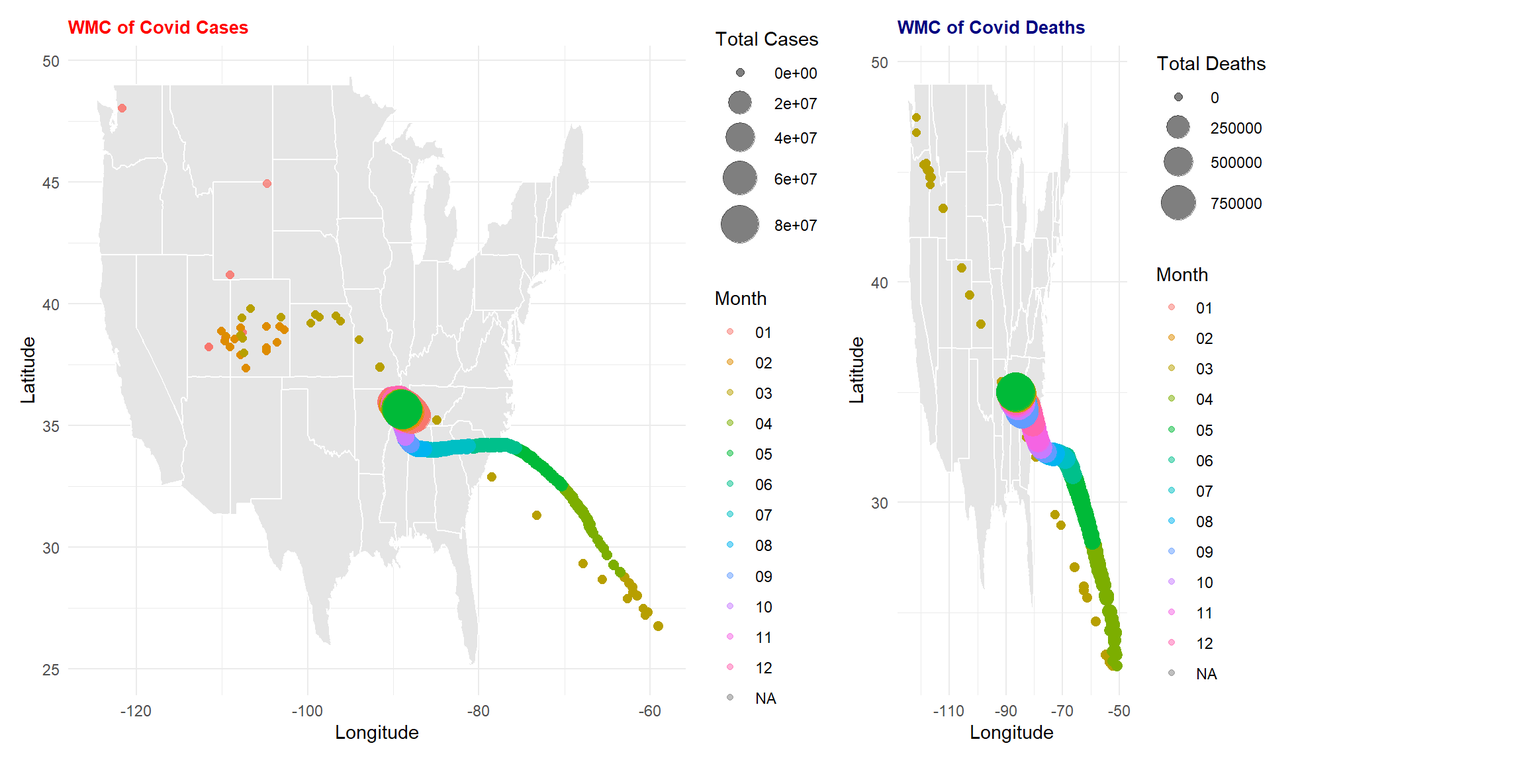
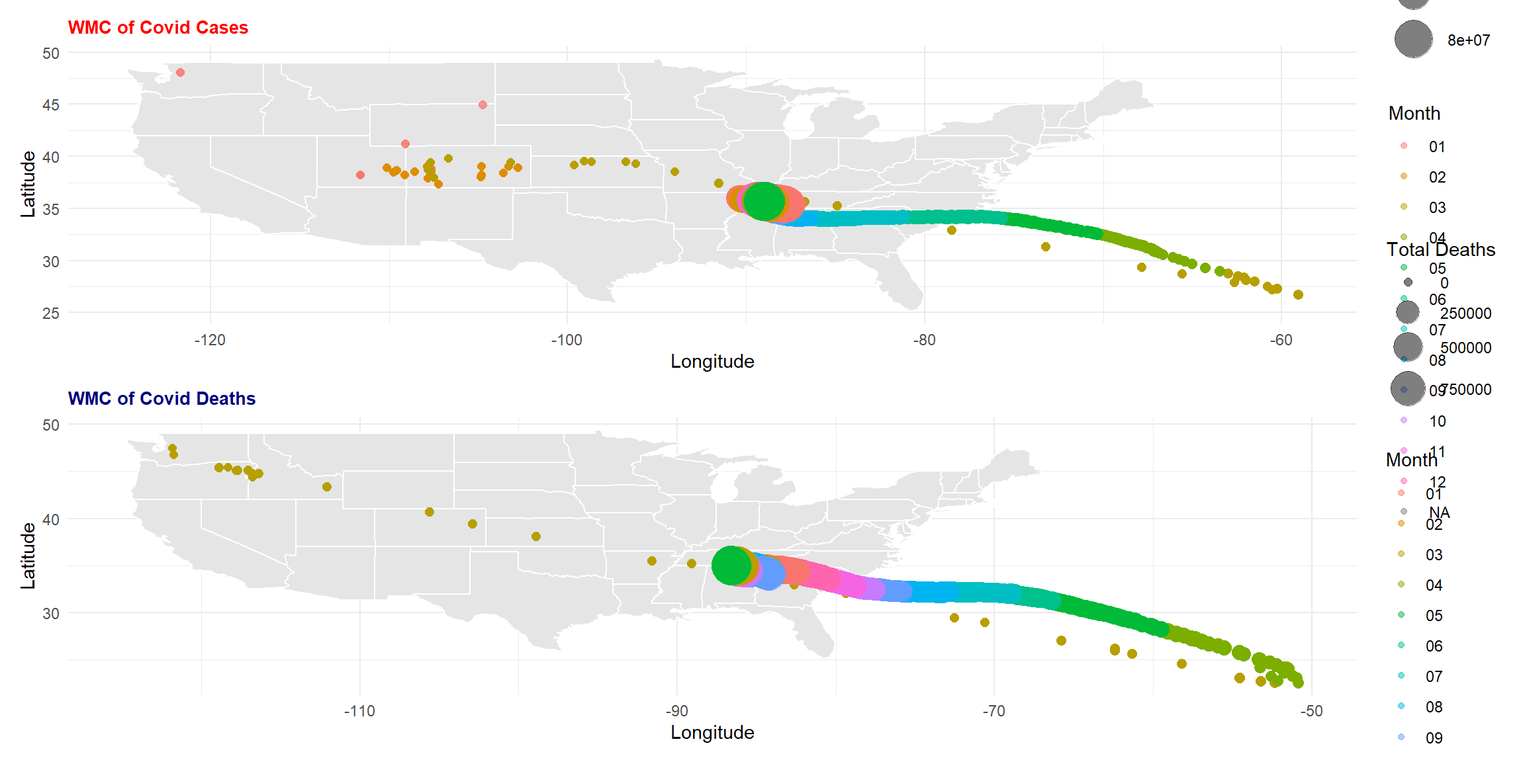
na

diff --git a/lab-03.html b/lab-03.html
@@ -281,7 +281,7 @@ $ RNETMIG2021           &lt;dbl&gt; 4.3515806, 29.9450352, -12.6459537, 11.44858
 <span id="cb30-13"><a href="#cb30-13" aria-hidden="true" tabindex="-1"></a>  <span class="fu">flextable</span>()  <span class="sc">%&gt;%</span></span>
 <span id="cb30-14"><a href="#cb30-14" aria-hidden="true" tabindex="-1"></a>  <span class="fu">set_caption</span>(<span class="st">"Top Counties by Per Capita Cumulative Cases on 2021-02-01"</span>)</span></code><button title="Copy to Clipboard" class="code-copy-button"><i class="bi"></i></button></pre></div>
 <div class="cell-output-display">
-<div class="tabwid"><style>.cl-cff67302{}.cl-cff07876{font-family:'Arial';font-size:11pt;font-weight:normal;font-style:normal;text-decoration:none;color:rgba(0, 0, 0, 1.00);background-color:transparent;}.cl-cff2dd14{margin:0;text-align:right;border-bottom: 0 solid rgba(0, 0, 0, 1.00);border-top: 0 solid rgba(0, 0, 0, 1.00);border-left: 0 solid rgba(0, 0, 0, 1.00);border-right: 0 solid rgba(0, 0, 0, 1.00);padding-bottom:5pt;padding-top:5pt;padding-left:5pt;padding-right:5pt;line-height: 1;background-color:transparent;}.cl-cff2dd15{margin:0;text-align:left;border-bottom: 0 solid rgba(0, 0, 0, 1.00);border-top: 0 solid rgba(0, 0, 0, 1.00);border-left: 0 solid rgba(0, 0, 0, 1.00);border-right: 0 solid rgba(0, 0, 0, 1.00);padding-bottom:5pt;padding-top:5pt;padding-left:5pt;padding-right:5pt;line-height: 1;background-color:transparent;}.cl-cff2f29a{width:0.75in;background-color:transparent;vertical-align: middle;border-bottom: 1.5pt solid rgba(102, 102, 102, 1.00);border-top: 1.5pt solid rgba(102, 102, 102, 1.00);border-left: 0 solid rgba(0, 0, 0, 1.00);border-right: 0 solid rgba(0, 0, 0, 1.00);margin-bottom:0;margin-top:0;margin-left:0;margin-right:0;}.cl-cff2f2a4{width:0.75in;background-color:transparent;vertical-align: middle;border-bottom: 1.5pt solid rgba(102, 102, 102, 1.00);border-top: 1.5pt solid rgba(102, 102, 102, 1.00);border-left: 0 solid rgba(0, 0, 0, 1.00);border-right: 0 solid rgba(0, 0, 0, 1.00);margin-bottom:0;margin-top:0;margin-left:0;margin-right:0;}.cl-cff2f2a5{width:0.75in;background-color:transparent;vertical-align: middle;border-bottom: 0 solid rgba(0, 0, 0, 1.00);border-top: 0 solid rgba(0, 0, 0, 1.00);border-left: 0 solid rgba(0, 0, 0, 1.00);border-right: 0 solid rgba(0, 0, 0, 1.00);margin-bottom:0;margin-top:0;margin-left:0;margin-right:0;}.cl-cff2f2c2{width:0.75in;background-color:transparent;vertical-align: middle;border-bottom: 0 solid rgba(0, 0, 0, 1.00);border-top: 0 solid rgba(0, 0, 0, 1.00);border-left: 0 solid rgba(0, 0, 0, 1.00);border-right: 0 solid rgba(0, 0, 0, 1.00);margin-bottom:0;margin-top:0;margin-left:0;margin-right:0;}.cl-cff2f2c3{width:0.75in;background-color:transparent;vertical-align: middle;border-bottom: 1.5pt solid rgba(102, 102, 102, 1.00);border-top: 0 solid rgba(0, 0, 0, 1.00);border-left: 0 solid rgba(0, 0, 0, 1.00);border-right: 0 solid rgba(0, 0, 0, 1.00);margin-bottom:0;margin-top:0;margin-left:0;margin-right:0;}.cl-cff2f2cc{width:0.75in;background-color:transparent;vertical-align: middle;border-bottom: 1.5pt solid rgba(102, 102, 102, 1.00);border-top: 0 solid rgba(0, 0, 0, 1.00);border-left: 0 solid rgba(0, 0, 0, 1.00);border-right: 0 solid rgba(0, 0, 0, 1.00);margin-bottom:0;margin-top:0;margin-left:0;margin-right:0;}</style><table data-quarto-disable-processing="true" class="cl-cff67302"><thead><tr style="overflow-wrap:break-word;"><th class="cl-cff2f29a"><p class="cl-cff2dd14"><span class="cl-cff07876">Date</span></p></th><th class="cl-cff2f2a4"><p class="cl-cff2dd15"><span class="cl-cff07876">County</span></p></th><th class="cl-cff2f29a"><p class="cl-cff2dd14"><span class="cl-cff07876">Per Capita Cumulative Cases</span></p></th></tr></thead><tbody><tr style="overflow-wrap:break-word;"><td class="cl-cff2f2a5"><p class="cl-cff2dd14"><span class="cl-cff07876">2022-02-01</span></p></td><td class="cl-cff2f2c2"><p class="cl-cff2dd15"><span class="cl-cff07876">Crowley</span></p></td><td class="cl-cff2f2a5"><p class="cl-cff2dd14"><span class="cl-cff07876">0.5117698</span></p></td></tr><tr style="overflow-wrap:break-word;"><td class="cl-cff2f2a5"><p class="cl-cff2dd14"><span class="cl-cff07876">2022-02-01</span></p></td><td class="cl-cff2f2c2"><p class="cl-cff2dd15"><span class="cl-cff07876">Bent</span></p></td><td class="cl-cff2f2a5"><p class="cl-cff2dd14"><span class="cl-cff07876">0.4118749</span></p></td></tr><tr style="overflow-wrap:break-word;"><td class="cl-cff2f2a5"><p class="cl-cff2dd14"><span class="cl-cff07876">2022-02-01</span></p></td><td class="cl-cff2f2c2"><p class="cl-cff2dd15"><span class="cl-cff07876">Pitkin</span></p></td><td class="cl-cff2f2a5"><p class="cl-cff2dd14"><span class="cl-cff07876">0.3429659</span></p></td></tr><tr style="overflow-wrap:break-word;"><td class="cl-cff2f2a5"><p class="cl-cff2dd14"><span class="cl-cff07876">2022-02-01</span></p></td><td class="cl-cff2f2c2"><p class="cl-cff2dd15"><span class="cl-cff07876">Lincoln</span></p></td><td class="cl-cff2f2a5"><p class="cl-cff2dd14"><span class="cl-cff07876">0.3424082</span></p></td></tr><tr style="overflow-wrap:break-word;"><td class="cl-cff2f2c3"><p class="cl-cff2dd14"><span class="cl-cff07876">2022-02-01</span></p></td><td class="cl-cff2f2cc"><p class="cl-cff2dd15"><span class="cl-cff07876">Logan</span></p></td><td class="cl-cff2f2c3"><p class="cl-cff2dd14"><span class="cl-cff07876">0.3047701</span></p></td></tr></tbody></table></div>
+<div class="tabwid"><style>.cl-89d35046{}.cl-89cc3c84{font-family:'Arial';font-size:11pt;font-weight:normal;font-style:normal;text-decoration:none;color:rgba(0, 0, 0, 1.00);background-color:transparent;}.cl-89cef280{margin:0;text-align:right;border-bottom: 0 solid rgba(0, 0, 0, 1.00);border-top: 0 solid rgba(0, 0, 0, 1.00);border-left: 0 solid rgba(0, 0, 0, 1.00);border-right: 0 solid rgba(0, 0, 0, 1.00);padding-bottom:5pt;padding-top:5pt;padding-left:5pt;padding-right:5pt;line-height: 1;background-color:transparent;}.cl-89cef28a{margin:0;text-align:left;border-bottom: 0 solid rgba(0, 0, 0, 1.00);border-top: 0 solid rgba(0, 0, 0, 1.00);border-left: 0 solid rgba(0, 0, 0, 1.00);border-right: 0 solid rgba(0, 0, 0, 1.00);padding-bottom:5pt;padding-top:5pt;padding-left:5pt;padding-right:5pt;line-height: 1;background-color:transparent;}.cl-89cf0d38{width:0.75in;background-color:transparent;vertical-align: middle;border-bottom: 1.5pt solid rgba(102, 102, 102, 1.00);border-top: 1.5pt solid rgba(102, 102, 102, 1.00);border-left: 0 solid rgba(0, 0, 0, 1.00);border-right: 0 solid rgba(0, 0, 0, 1.00);margin-bottom:0;margin-top:0;margin-left:0;margin-right:0;}.cl-89cf0d56{width:0.75in;background-color:transparent;vertical-align: middle;border-bottom: 1.5pt solid rgba(102, 102, 102, 1.00);border-top: 1.5pt solid rgba(102, 102, 102, 1.00);border-left: 0 solid rgba(0, 0, 0, 1.00);border-right: 0 solid rgba(0, 0, 0, 1.00);margin-bottom:0;margin-top:0;margin-left:0;margin-right:0;}.cl-89cf0d57{width:0.75in;background-color:transparent;vertical-align: middle;border-bottom: 0 solid rgba(0, 0, 0, 1.00);border-top: 0 solid rgba(0, 0, 0, 1.00);border-left: 0 solid rgba(0, 0, 0, 1.00);border-right: 0 solid rgba(0, 0, 0, 1.00);margin-bottom:0;margin-top:0;margin-left:0;margin-right:0;}.cl-89cf0d60{width:0.75in;background-color:transparent;vertical-align: middle;border-bottom: 0 solid rgba(0, 0, 0, 1.00);border-top: 0 solid rgba(0, 0, 0, 1.00);border-left: 0 solid rgba(0, 0, 0, 1.00);border-right: 0 solid rgba(0, 0, 0, 1.00);margin-bottom:0;margin-top:0;margin-left:0;margin-right:0;}.cl-89cf0d61{width:0.75in;background-color:transparent;vertical-align: middle;border-bottom: 1.5pt solid rgba(102, 102, 102, 1.00);border-top: 0 solid rgba(0, 0, 0, 1.00);border-left: 0 solid rgba(0, 0, 0, 1.00);border-right: 0 solid rgba(0, 0, 0, 1.00);margin-bottom:0;margin-top:0;margin-left:0;margin-right:0;}.cl-89cf0d6a{width:0.75in;background-color:transparent;vertical-align: middle;border-bottom: 1.5pt solid rgba(102, 102, 102, 1.00);border-top: 0 solid rgba(0, 0, 0, 1.00);border-left: 0 solid rgba(0, 0, 0, 1.00);border-right: 0 solid rgba(0, 0, 0, 1.00);margin-bottom:0;margin-top:0;margin-left:0;margin-right:0;}</style><table data-quarto-disable-processing="true" class="cl-89d35046"><thead><tr style="overflow-wrap:break-word;"><th class="cl-89cf0d38"><p class="cl-89cef280"><span class="cl-89cc3c84">Date</span></p></th><th class="cl-89cf0d56"><p class="cl-89cef28a"><span class="cl-89cc3c84">County</span></p></th><th class="cl-89cf0d38"><p class="cl-89cef280"><span class="cl-89cc3c84">Per Capita Cumulative Cases</span></p></th></tr></thead><tbody><tr style="overflow-wrap:break-word;"><td class="cl-89cf0d57"><p class="cl-89cef280"><span class="cl-89cc3c84">2022-02-01</span></p></td><td class="cl-89cf0d60"><p class="cl-89cef28a"><span class="cl-89cc3c84">Crowley</span></p></td><td class="cl-89cf0d57"><p class="cl-89cef280"><span class="cl-89cc3c84">0.5117698</span></p></td></tr><tr style="overflow-wrap:break-word;"><td class="cl-89cf0d57"><p class="cl-89cef280"><span class="cl-89cc3c84">2022-02-01</span></p></td><td class="cl-89cf0d60"><p class="cl-89cef28a"><span class="cl-89cc3c84">Bent</span></p></td><td class="cl-89cf0d57"><p class="cl-89cef280"><span class="cl-89cc3c84">0.4118749</span></p></td></tr><tr style="overflow-wrap:break-word;"><td class="cl-89cf0d57"><p class="cl-89cef280"><span class="cl-89cc3c84">2022-02-01</span></p></td><td class="cl-89cf0d60"><p class="cl-89cef28a"><span class="cl-89cc3c84">Pitkin</span></p></td><td class="cl-89cf0d57"><p class="cl-89cef280"><span class="cl-89cc3c84">0.3429659</span></p></td></tr><tr style="overflow-wrap:break-word;"><td class="cl-89cf0d57"><p class="cl-89cef280"><span class="cl-89cc3c84">2022-02-01</span></p></td><td class="cl-89cf0d60"><p class="cl-89cef28a"><span class="cl-89cc3c84">Lincoln</span></p></td><td class="cl-89cf0d57"><p class="cl-89cef280"><span class="cl-89cc3c84">0.3424082</span></p></td></tr><tr style="overflow-wrap:break-word;"><td class="cl-89cf0d61"><p class="cl-89cef280"><span class="cl-89cc3c84">2022-02-01</span></p></td><td class="cl-89cf0d6a"><p class="cl-89cef28a"><span class="cl-89cc3c84">Logan</span></p></td><td class="cl-89cf0d61"><p class="cl-89cef280"><span class="cl-89cc3c84">0.3047701</span></p></td></tr></tbody></table></div>
 </div>
 <div class="sourceCode cell-code" id="cb31"><pre class="sourceCode r code-with-copy"><code class="sourceCode r"><span id="cb31-1"><a href="#cb31-1" aria-hidden="true" tabindex="-1"></a><span class="co">#top 5 counties with most new cases per cap</span></span>
 <span id="cb31-2"><a href="#cb31-2" aria-hidden="true" tabindex="-1"></a>combined_data <span class="sc">%&gt;%</span> </span>
@@ -291,7 +291,7 @@ $ RNETMIG2021           &lt;dbl&gt; 4.3515806, 29.9450352, -12.6459537, 11.44858
 <span id="cb31-6"><a href="#cb31-6" aria-hidden="true" tabindex="-1"></a>  <span class="fu">flextable</span>()  <span class="sc">%&gt;%</span></span>
 <span id="cb31-7"><a href="#cb31-7" aria-hidden="true" tabindex="-1"></a>  <span class="fu">set_caption</span>(<span class="st">"Top Counties by Per Capita New Cases on 2021-02-01"</span>)</span></code><button title="Copy to Clipboard" class="code-copy-button"><i class="bi"></i></button></pre></div>
 <div class="cell-output-display">
-<div class="tabwid"><style>.cl-d0035fb8{}.cl-cffe1c9c{font-family:'Arial';font-size:11pt;font-weight:normal;font-style:normal;text-decoration:none;color:rgba(0, 0, 0, 1.00);background-color:transparent;}.cl-d0002e10{margin:0;text-align:right;border-bottom: 0 solid rgba(0, 0, 0, 1.00);border-top: 0 solid rgba(0, 0, 0, 1.00);border-left: 0 solid rgba(0, 0, 0, 1.00);border-right: 0 solid rgba(0, 0, 0, 1.00);padding-bottom:5pt;padding-top:5pt;padding-left:5pt;padding-right:5pt;line-height: 1;background-color:transparent;}.cl-d0002e1a{margin:0;text-align:left;border-bottom: 0 solid rgba(0, 0, 0, 1.00);border-top: 0 solid rgba(0, 0, 0, 1.00);border-left: 0 solid rgba(0, 0, 0, 1.00);border-right: 0 solid rgba(0, 0, 0, 1.00);padding-bottom:5pt;padding-top:5pt;padding-left:5pt;padding-right:5pt;line-height: 1;background-color:transparent;}.cl-d000431e{width:0.75in;background-color:transparent;vertical-align: middle;border-bottom: 1.5pt solid rgba(102, 102, 102, 1.00);border-top: 1.5pt solid rgba(102, 102, 102, 1.00);border-left: 0 solid rgba(0, 0, 0, 1.00);border-right: 0 solid rgba(0, 0, 0, 1.00);margin-bottom:0;margin-top:0;margin-left:0;margin-right:0;}.cl-d0004328{width:0.75in;background-color:transparent;vertical-align: middle;border-bottom: 1.5pt solid rgba(102, 102, 102, 1.00);border-top: 1.5pt solid rgba(102, 102, 102, 1.00);border-left: 0 solid rgba(0, 0, 0, 1.00);border-right: 0 solid rgba(0, 0, 0, 1.00);margin-bottom:0;margin-top:0;margin-left:0;margin-right:0;}.cl-d0004329{width:0.75in;background-color:transparent;vertical-align: middle;border-bottom: 0 solid rgba(0, 0, 0, 1.00);border-top: 0 solid rgba(0, 0, 0, 1.00);border-left: 0 solid rgba(0, 0, 0, 1.00);border-right: 0 solid rgba(0, 0, 0, 1.00);margin-bottom:0;margin-top:0;margin-left:0;margin-right:0;}.cl-d0004332{width:0.75in;background-color:transparent;vertical-align: middle;border-bottom: 0 solid rgba(0, 0, 0, 1.00);border-top: 0 solid rgba(0, 0, 0, 1.00);border-left: 0 solid rgba(0, 0, 0, 1.00);border-right: 0 solid rgba(0, 0, 0, 1.00);margin-bottom:0;margin-top:0;margin-left:0;margin-right:0;}.cl-d0004333{width:0.75in;background-color:transparent;vertical-align: middle;border-bottom: 1.5pt solid rgba(102, 102, 102, 1.00);border-top: 0 solid rgba(0, 0, 0, 1.00);border-left: 0 solid rgba(0, 0, 0, 1.00);border-right: 0 solid rgba(0, 0, 0, 1.00);margin-bottom:0;margin-top:0;margin-left:0;margin-right:0;}.cl-d0004334{width:0.75in;background-color:transparent;vertical-align: middle;border-bottom: 1.5pt solid rgba(102, 102, 102, 1.00);border-top: 0 solid rgba(0, 0, 0, 1.00);border-left: 0 solid rgba(0, 0, 0, 1.00);border-right: 0 solid rgba(0, 0, 0, 1.00);margin-bottom:0;margin-top:0;margin-left:0;margin-right:0;}</style><table data-quarto-disable-processing="true" class="cl-d0035fb8"><thead><tr style="overflow-wrap:break-word;"><th class="cl-d000431e"><p class="cl-d0002e10"><span class="cl-cffe1c9c">Date</span></p></th><th class="cl-d0004328"><p class="cl-d0002e1a"><span class="cl-cffe1c9c">County</span></p></th><th class="cl-d000431e"><p class="cl-d0002e10"><span class="cl-cffe1c9c">Per Capita New Cases</span></p></th></tr></thead><tbody><tr style="overflow-wrap:break-word;"><td class="cl-d0004329"><p class="cl-d0002e10"><span class="cl-cffe1c9c">2022-02-01</span></p></td><td class="cl-d0004332"><p class="cl-d0002e1a"><span class="cl-cffe1c9c">Crowley</span></p></td><td class="cl-d0004329"><p class="cl-d0002e10"><span class="cl-cffe1c9c">0.009764603</span></p></td></tr><tr style="overflow-wrap:break-word;"><td class="cl-d0004329"><p class="cl-d0002e10"><span class="cl-cffe1c9c">2022-02-01</span></p></td><td class="cl-d0004332"><p class="cl-d0002e1a"><span class="cl-cffe1c9c">Bent</span></p></td><td class="cl-d0004329"><p class="cl-d0002e10"><span class="cl-cffe1c9c">0.004120622</span></p></td></tr><tr style="overflow-wrap:break-word;"><td class="cl-d0004329"><p class="cl-d0002e10"><span class="cl-cffe1c9c">2022-02-01</span></p></td><td class="cl-d0004332"><p class="cl-d0002e1a"><span class="cl-cffe1c9c">Sedgwick</span></p></td><td class="cl-d0004329"><p class="cl-d0002e10"><span class="cl-cffe1c9c">0.003869304</span></p></td></tr><tr style="overflow-wrap:break-word;"><td class="cl-d0004329"><p class="cl-d0002e10"><span class="cl-cffe1c9c">2022-02-01</span></p></td><td class="cl-d0004332"><p class="cl-d0002e1a"><span class="cl-cffe1c9c">Washington</span></p></td><td class="cl-d0004329"><p class="cl-d0002e10"><span class="cl-cffe1c9c">0.002875924</span></p></td></tr><tr style="overflow-wrap:break-word;"><td class="cl-d0004333"><p class="cl-d0002e10"><span class="cl-cffe1c9c">2022-02-01</span></p></td><td class="cl-d0004334"><p class="cl-d0002e1a"><span class="cl-cffe1c9c">Las Animas</span></p></td><td class="cl-d0004333"><p class="cl-d0002e10"><span class="cl-cffe1c9c">0.002651039</span></p></td></tr></tbody></table></div>
+<div class="tabwid"><style>.cl-89e207d0{}.cl-89dc3bca{font-family:'Arial';font-size:11pt;font-weight:normal;font-style:normal;text-decoration:none;color:rgba(0, 0, 0, 1.00);background-color:transparent;}.cl-89de6db4{margin:0;text-align:right;border-bottom: 0 solid rgba(0, 0, 0, 1.00);border-top: 0 solid rgba(0, 0, 0, 1.00);border-left: 0 solid rgba(0, 0, 0, 1.00);border-right: 0 solid rgba(0, 0, 0, 1.00);padding-bottom:5pt;padding-top:5pt;padding-left:5pt;padding-right:5pt;line-height: 1;background-color:transparent;}.cl-89de6dc8{margin:0;text-align:left;border-bottom: 0 solid rgba(0, 0, 0, 1.00);border-top: 0 solid rgba(0, 0, 0, 1.00);border-left: 0 solid rgba(0, 0, 0, 1.00);border-right: 0 solid rgba(0, 0, 0, 1.00);padding-bottom:5pt;padding-top:5pt;padding-left:5pt;padding-right:5pt;line-height: 1;background-color:transparent;}.cl-89de825e{width:0.75in;background-color:transparent;vertical-align: middle;border-bottom: 1.5pt solid rgba(102, 102, 102, 1.00);border-top: 1.5pt solid rgba(102, 102, 102, 1.00);border-left: 0 solid rgba(0, 0, 0, 1.00);border-right: 0 solid rgba(0, 0, 0, 1.00);margin-bottom:0;margin-top:0;margin-left:0;margin-right:0;}.cl-89de8268{width:0.75in;background-color:transparent;vertical-align: middle;border-bottom: 1.5pt solid rgba(102, 102, 102, 1.00);border-top: 1.5pt solid rgba(102, 102, 102, 1.00);border-left: 0 solid rgba(0, 0, 0, 1.00);border-right: 0 solid rgba(0, 0, 0, 1.00);margin-bottom:0;margin-top:0;margin-left:0;margin-right:0;}.cl-89de8269{width:0.75in;background-color:transparent;vertical-align: middle;border-bottom: 0 solid rgba(0, 0, 0, 1.00);border-top: 0 solid rgba(0, 0, 0, 1.00);border-left: 0 solid rgba(0, 0, 0, 1.00);border-right: 0 solid rgba(0, 0, 0, 1.00);margin-bottom:0;margin-top:0;margin-left:0;margin-right:0;}.cl-89de8272{width:0.75in;background-color:transparent;vertical-align: middle;border-bottom: 0 solid rgba(0, 0, 0, 1.00);border-top: 0 solid rgba(0, 0, 0, 1.00);border-left: 0 solid rgba(0, 0, 0, 1.00);border-right: 0 solid rgba(0, 0, 0, 1.00);margin-bottom:0;margin-top:0;margin-left:0;margin-right:0;}.cl-89de8273{width:0.75in;background-color:transparent;vertical-align: middle;border-bottom: 1.5pt solid rgba(102, 102, 102, 1.00);border-top: 0 solid rgba(0, 0, 0, 1.00);border-left: 0 solid rgba(0, 0, 0, 1.00);border-right: 0 solid rgba(0, 0, 0, 1.00);margin-bottom:0;margin-top:0;margin-left:0;margin-right:0;}.cl-89de827c{width:0.75in;background-color:transparent;vertical-align: middle;border-bottom: 1.5pt solid rgba(102, 102, 102, 1.00);border-top: 0 solid rgba(0, 0, 0, 1.00);border-left: 0 solid rgba(0, 0, 0, 1.00);border-right: 0 solid rgba(0, 0, 0, 1.00);margin-bottom:0;margin-top:0;margin-left:0;margin-right:0;}</style><table data-quarto-disable-processing="true" class="cl-89e207d0"><thead><tr style="overflow-wrap:break-word;"><th class="cl-89de825e"><p class="cl-89de6db4"><span class="cl-89dc3bca">Date</span></p></th><th class="cl-89de8268"><p class="cl-89de6dc8"><span class="cl-89dc3bca">County</span></p></th><th class="cl-89de825e"><p class="cl-89de6db4"><span class="cl-89dc3bca">Per Capita New Cases</span></p></th></tr></thead><tbody><tr style="overflow-wrap:break-word;"><td class="cl-89de8269"><p class="cl-89de6db4"><span class="cl-89dc3bca">2022-02-01</span></p></td><td class="cl-89de8272"><p class="cl-89de6dc8"><span class="cl-89dc3bca">Crowley</span></p></td><td class="cl-89de8269"><p class="cl-89de6db4"><span class="cl-89dc3bca">0.009764603</span></p></td></tr><tr style="overflow-wrap:break-word;"><td class="cl-89de8269"><p class="cl-89de6db4"><span class="cl-89dc3bca">2022-02-01</span></p></td><td class="cl-89de8272"><p class="cl-89de6dc8"><span class="cl-89dc3bca">Bent</span></p></td><td class="cl-89de8269"><p class="cl-89de6db4"><span class="cl-89dc3bca">0.004120622</span></p></td></tr><tr style="overflow-wrap:break-word;"><td class="cl-89de8269"><p class="cl-89de6db4"><span class="cl-89dc3bca">2022-02-01</span></p></td><td class="cl-89de8272"><p class="cl-89de6dc8"><span class="cl-89dc3bca">Sedgwick</span></p></td><td class="cl-89de8269"><p class="cl-89de6db4"><span class="cl-89dc3bca">0.003869304</span></p></td></tr><tr style="overflow-wrap:break-word;"><td class="cl-89de8269"><p class="cl-89de6db4"><span class="cl-89dc3bca">2022-02-01</span></p></td><td class="cl-89de8272"><p class="cl-89de6dc8"><span class="cl-89dc3bca">Washington</span></p></td><td class="cl-89de8269"><p class="cl-89de6db4"><span class="cl-89dc3bca">0.002875924</span></p></td></tr><tr style="overflow-wrap:break-word;"><td class="cl-89de8273"><p class="cl-89de6db4"><span class="cl-89dc3bca">2022-02-01</span></p></td><td class="cl-89de827c"><p class="cl-89de6dc8"><span class="cl-89dc3bca">Las Animas</span></p></td><td class="cl-89de8273"><p class="cl-89de6db4"><span class="cl-89dc3bca">0.002651039</span></p></td></tr></tbody></table></div>
 </div>
 </div>
 <p>The range for CO counties populations in 2021 was 741 to 737,287.</p>
@@ -320,7 +320,7 @@ $ RNETMIG2021           &lt;dbl&gt; 4.3515806, 29.9450352, -12.6459537, 11.44858
 <span id="cb32-22"><a href="#cb32-22" aria-hidden="true" tabindex="-1"></a>  <span class="fu">flextable</span>() <span class="sc">%&gt;%</span></span>
 <span id="cb32-23"><a href="#cb32-23" aria-hidden="true" tabindex="-1"></a>  <span class="fu">set_caption</span>(<span class="st">"Top 5 Colorado Counties by New Cases per 100,000 in the Last 14 Days"</span>)</span></code><button title="Copy to Clipboard" class="code-copy-button"><i class="bi"></i></button></pre></div>
 <div class="cell-output-display">
-<div class="tabwid"><style>.cl-d0228078{}.cl-d01d5efe{font-family:'Arial';font-size:11pt;font-weight:normal;font-style:normal;text-decoration:none;color:rgba(0, 0, 0, 1.00);background-color:transparent;}.cl-d01f4502{margin:0;text-align:left;border-bottom: 0 solid rgba(0, 0, 0, 1.00);border-top: 0 solid rgba(0, 0, 0, 1.00);border-left: 0 solid rgba(0, 0, 0, 1.00);border-right: 0 solid rgba(0, 0, 0, 1.00);padding-bottom:5pt;padding-top:5pt;padding-left:5pt;padding-right:5pt;line-height: 1;background-color:transparent;}.cl-d01f450c{margin:0;text-align:right;border-bottom: 0 solid rgba(0, 0, 0, 1.00);border-top: 0 solid rgba(0, 0, 0, 1.00);border-left: 0 solid rgba(0, 0, 0, 1.00);border-right: 0 solid rgba(0, 0, 0, 1.00);padding-bottom:5pt;padding-top:5pt;padding-left:5pt;padding-right:5pt;line-height: 1;background-color:transparent;}.cl-d01f56a0{width:0.75in;background-color:transparent;vertical-align: middle;border-bottom: 1.5pt solid rgba(102, 102, 102, 1.00);border-top: 1.5pt solid rgba(102, 102, 102, 1.00);border-left: 0 solid rgba(0, 0, 0, 1.00);border-right: 0 solid rgba(0, 0, 0, 1.00);margin-bottom:0;margin-top:0;margin-left:0;margin-right:0;}.cl-d01f56a1{width:0.75in;background-color:transparent;vertical-align: middle;border-bottom: 1.5pt solid rgba(102, 102, 102, 1.00);border-top: 1.5pt solid rgba(102, 102, 102, 1.00);border-left: 0 solid rgba(0, 0, 0, 1.00);border-right: 0 solid rgba(0, 0, 0, 1.00);margin-bottom:0;margin-top:0;margin-left:0;margin-right:0;}.cl-d01f56aa{width:0.75in;background-color:transparent;vertical-align: middle;border-bottom: 0 solid rgba(0, 0, 0, 1.00);border-top: 0 solid rgba(0, 0, 0, 1.00);border-left: 0 solid rgba(0, 0, 0, 1.00);border-right: 0 solid rgba(0, 0, 0, 1.00);margin-bottom:0;margin-top:0;margin-left:0;margin-right:0;}.cl-d01f56ab{width:0.75in;background-color:transparent;vertical-align: middle;border-bottom: 0 solid rgba(0, 0, 0, 1.00);border-top: 0 solid rgba(0, 0, 0, 1.00);border-left: 0 solid rgba(0, 0, 0, 1.00);border-right: 0 solid rgba(0, 0, 0, 1.00);margin-bottom:0;margin-top:0;margin-left:0;margin-right:0;}.cl-d01f56b4{width:0.75in;background-color:transparent;vertical-align: middle;border-bottom: 1.5pt solid rgba(102, 102, 102, 1.00);border-top: 0 solid rgba(0, 0, 0, 1.00);border-left: 0 solid rgba(0, 0, 0, 1.00);border-right: 0 solid rgba(0, 0, 0, 1.00);margin-bottom:0;margin-top:0;margin-left:0;margin-right:0;}.cl-d01f56b5{width:0.75in;background-color:transparent;vertical-align: middle;border-bottom: 1.5pt solid rgba(102, 102, 102, 1.00);border-top: 0 solid rgba(0, 0, 0, 1.00);border-left: 0 solid rgba(0, 0, 0, 1.00);border-right: 0 solid rgba(0, 0, 0, 1.00);margin-bottom:0;margin-top:0;margin-left:0;margin-right:0;}</style><table data-quarto-disable-processing="true" class="cl-d0228078"><thead><tr style="overflow-wrap:break-word;"><th class="cl-d01f56a0"><p class="cl-d01f4502"><span class="cl-d01d5efe">County</span></p></th><th class="cl-d01f56a1"><p class="cl-d01f450c"><span class="cl-d01d5efe">Total New Cases</span></p></th><th class="cl-d01f56a1"><p class="cl-d01f450c"><span class="cl-d01d5efe">New Cases per 100k</span></p></th></tr></thead><tbody><tr style="overflow-wrap:break-word;"><td class="cl-d01f56aa"><p class="cl-d01f4502"><span class="cl-d01d5efe">Mineral</span></p></td><td class="cl-d01f56ab"><p class="cl-d01f450c"><span class="cl-d01d5efe">8</span></p></td><td class="cl-d01f56ab"><p class="cl-d01f450c"><span class="cl-d01d5efe">861.1410</span></p></td></tr><tr style="overflow-wrap:break-word;"><td class="cl-d01f56aa"><p class="cl-d01f4502"><span class="cl-d01d5efe">Boulder</span></p></td><td class="cl-d01f56ab"><p class="cl-d01f450c"><span class="cl-d01d5efe">2,437</span></p></td><td class="cl-d01f56ab"><p class="cl-d01f450c"><span class="cl-d01d5efe">745.0685</span></p></td></tr><tr style="overflow-wrap:break-word;"><td class="cl-d01f56aa"><p class="cl-d01f4502"><span class="cl-d01d5efe">Larimer</span></p></td><td class="cl-d01f56ab"><p class="cl-d01f450c"><span class="cl-d01d5efe">1,943</span></p></td><td class="cl-d01f56ab"><p class="cl-d01f450c"><span class="cl-d01d5efe">535.6350</span></p></td></tr><tr style="overflow-wrap:break-word;"><td class="cl-d01f56aa"><p class="cl-d01f4502"><span class="cl-d01d5efe">Denver</span></p></td><td class="cl-d01f56ab"><p class="cl-d01f450c"><span class="cl-d01d5efe">3,784</span></p></td><td class="cl-d01f56ab"><p class="cl-d01f450c"><span class="cl-d01d5efe">531.8588</span></p></td></tr><tr style="overflow-wrap:break-word;"><td class="cl-d01f56b4"><p class="cl-d01f4502"><span class="cl-d01d5efe">Jefferson</span></p></td><td class="cl-d01f56b5"><p class="cl-d01f450c"><span class="cl-d01d5efe">2,646</span></p></td><td class="cl-d01f56b5"><p class="cl-d01f450c"><span class="cl-d01d5efe">455.6546</span></p></td></tr></tbody></table></div>
+<div class="tabwid"><style>.cl-8a03067e{}.cl-89fd545e{font-family:'Arial';font-size:11pt;font-weight:normal;font-style:normal;text-decoration:none;color:rgba(0, 0, 0, 1.00);background-color:transparent;}.cl-89ff7e82{margin:0;text-align:left;border-bottom: 0 solid rgba(0, 0, 0, 1.00);border-top: 0 solid rgba(0, 0, 0, 1.00);border-left: 0 solid rgba(0, 0, 0, 1.00);border-right: 0 solid rgba(0, 0, 0, 1.00);padding-bottom:5pt;padding-top:5pt;padding-left:5pt;padding-right:5pt;line-height: 1;background-color:transparent;}.cl-89ff7e8c{margin:0;text-align:right;border-bottom: 0 solid rgba(0, 0, 0, 1.00);border-top: 0 solid rgba(0, 0, 0, 1.00);border-left: 0 solid rgba(0, 0, 0, 1.00);border-right: 0 solid rgba(0, 0, 0, 1.00);padding-bottom:5pt;padding-top:5pt;padding-left:5pt;padding-right:5pt;line-height: 1;background-color:transparent;}.cl-89ff94e4{width:0.75in;background-color:transparent;vertical-align: middle;border-bottom: 1.5pt solid rgba(102, 102, 102, 1.00);border-top: 1.5pt solid rgba(102, 102, 102, 1.00);border-left: 0 solid rgba(0, 0, 0, 1.00);border-right: 0 solid rgba(0, 0, 0, 1.00);margin-bottom:0;margin-top:0;margin-left:0;margin-right:0;}.cl-89ff94f8{width:0.75in;background-color:transparent;vertical-align: middle;border-bottom: 1.5pt solid rgba(102, 102, 102, 1.00);border-top: 1.5pt solid rgba(102, 102, 102, 1.00);border-left: 0 solid rgba(0, 0, 0, 1.00);border-right: 0 solid rgba(0, 0, 0, 1.00);margin-bottom:0;margin-top:0;margin-left:0;margin-right:0;}.cl-89ff9502{width:0.75in;background-color:transparent;vertical-align: middle;border-bottom: 0 solid rgba(0, 0, 0, 1.00);border-top: 0 solid rgba(0, 0, 0, 1.00);border-left: 0 solid rgba(0, 0, 0, 1.00);border-right: 0 solid rgba(0, 0, 0, 1.00);margin-bottom:0;margin-top:0;margin-left:0;margin-right:0;}.cl-89ff9503{width:0.75in;background-color:transparent;vertical-align: middle;border-bottom: 0 solid rgba(0, 0, 0, 1.00);border-top: 0 solid rgba(0, 0, 0, 1.00);border-left: 0 solid rgba(0, 0, 0, 1.00);border-right: 0 solid rgba(0, 0, 0, 1.00);margin-bottom:0;margin-top:0;margin-left:0;margin-right:0;}.cl-89ff950c{width:0.75in;background-color:transparent;vertical-align: middle;border-bottom: 1.5pt solid rgba(102, 102, 102, 1.00);border-top: 0 solid rgba(0, 0, 0, 1.00);border-left: 0 solid rgba(0, 0, 0, 1.00);border-right: 0 solid rgba(0, 0, 0, 1.00);margin-bottom:0;margin-top:0;margin-left:0;margin-right:0;}.cl-89ff950d{width:0.75in;background-color:transparent;vertical-align: middle;border-bottom: 1.5pt solid rgba(102, 102, 102, 1.00);border-top: 0 solid rgba(0, 0, 0, 1.00);border-left: 0 solid rgba(0, 0, 0, 1.00);border-right: 0 solid rgba(0, 0, 0, 1.00);margin-bottom:0;margin-top:0;margin-left:0;margin-right:0;}</style><table data-quarto-disable-processing="true" class="cl-8a03067e"><thead><tr style="overflow-wrap:break-word;"><th class="cl-89ff94e4"><p class="cl-89ff7e82"><span class="cl-89fd545e">County</span></p></th><th class="cl-89ff94f8"><p class="cl-89ff7e8c"><span class="cl-89fd545e">Total New Cases</span></p></th><th class="cl-89ff94f8"><p class="cl-89ff7e8c"><span class="cl-89fd545e">New Cases per 100k</span></p></th></tr></thead><tbody><tr style="overflow-wrap:break-word;"><td class="cl-89ff9502"><p class="cl-89ff7e82"><span class="cl-89fd545e">Mineral</span></p></td><td class="cl-89ff9503"><p class="cl-89ff7e8c"><span class="cl-89fd545e">8</span></p></td><td class="cl-89ff9503"><p class="cl-89ff7e8c"><span class="cl-89fd545e">861.1410</span></p></td></tr><tr style="overflow-wrap:break-word;"><td class="cl-89ff9502"><p class="cl-89ff7e82"><span class="cl-89fd545e">Boulder</span></p></td><td class="cl-89ff9503"><p class="cl-89ff7e8c"><span class="cl-89fd545e">2,437</span></p></td><td class="cl-89ff9503"><p class="cl-89ff7e8c"><span class="cl-89fd545e">745.0685</span></p></td></tr><tr style="overflow-wrap:break-word;"><td class="cl-89ff9502"><p class="cl-89ff7e82"><span class="cl-89fd545e">Larimer</span></p></td><td class="cl-89ff9503"><p class="cl-89ff7e8c"><span class="cl-89fd545e">1,943</span></p></td><td class="cl-89ff9503"><p class="cl-89ff7e8c"><span class="cl-89fd545e">535.6350</span></p></td></tr><tr style="overflow-wrap:break-word;"><td class="cl-89ff9502"><p class="cl-89ff7e82"><span class="cl-89fd545e">Denver</span></p></td><td class="cl-89ff9503"><p class="cl-89ff7e8c"><span class="cl-89fd545e">3,784</span></p></td><td class="cl-89ff9503"><p class="cl-89ff7e8c"><span class="cl-89fd545e">531.8588</span></p></td></tr><tr style="overflow-wrap:break-word;"><td class="cl-89ff950c"><p class="cl-89ff7e82"><span class="cl-89fd545e">Jefferson</span></p></td><td class="cl-89ff950d"><p class="cl-89ff7e8c"><span class="cl-89fd545e">2,646</span></p></td><td class="cl-89ff950d"><p class="cl-89ff7e8c"><span class="cl-89fd545e">455.6546</span></p></td></tr></tbody></table></div>
 </div>
 <div class="sourceCode cell-code" id="cb33"><pre class="sourceCode r code-with-copy"><code class="sourceCode r"><span id="cb33-1"><a href="#cb33-1" aria-hidden="true" tabindex="-1"></a><span class="co">#count exceptions</span></span>
 <span id="cb33-2"><a href="#cb33-2" aria-hidden="true" tabindex="-1"></a>watchlist_count <span class="ot">&lt;-</span> last14_casesummary <span class="sc">%&gt;%</span></span>
@@ -561,7 +561,7 @@ dplyr 1.1.0.
 <div class="cell-output cell-output-stderr">
 <pre><code>Warning: package 'patchwork' was built under R version 4.4.2</code></pre>
 </div>
-<div class="sourceCode cell-code" id="cb57"><pre class="sourceCode r code-with-copy"><code class="sourceCode r"><span id="cb57-1"><a href="#cb57-1" aria-hidden="true" tabindex="-1"></a>P_cases <span class="sc">|</span> P_deaths <span class="sc">+</span> <span class="fu">plot_layout</span>(<span class="at">widths =</span> <span class="fu">c</span>(<span class="dv">1</span>, <span class="dv">1</span>))</span></code><button title="Copy to Clipboard" class="code-copy-button"><i class="bi"></i></button></pre></div>
+<div class="sourceCode cell-code" id="cb57"><pre class="sourceCode r code-with-copy"><code class="sourceCode r"><span id="cb57-1"><a href="#cb57-1" aria-hidden="true" tabindex="-1"></a>P_cases <span class="sc">/</span> P_deaths <span class="sc">+</span> <span class="fu">plot_layout</span>(<span class="at">widths =</span> <span class="fu">c</span>(<span class="dv">1</span>, <span class="dv">1</span>))</span></code><button title="Copy to Clipboard" class="code-copy-button"><i class="bi"></i></button></pre></div>
 <div class="cell-output cell-output-stderr">
 <pre><code>Warning: Removed 11 rows containing missing values or values outside the scale range
 (`geom_point()`).</code></pre>
